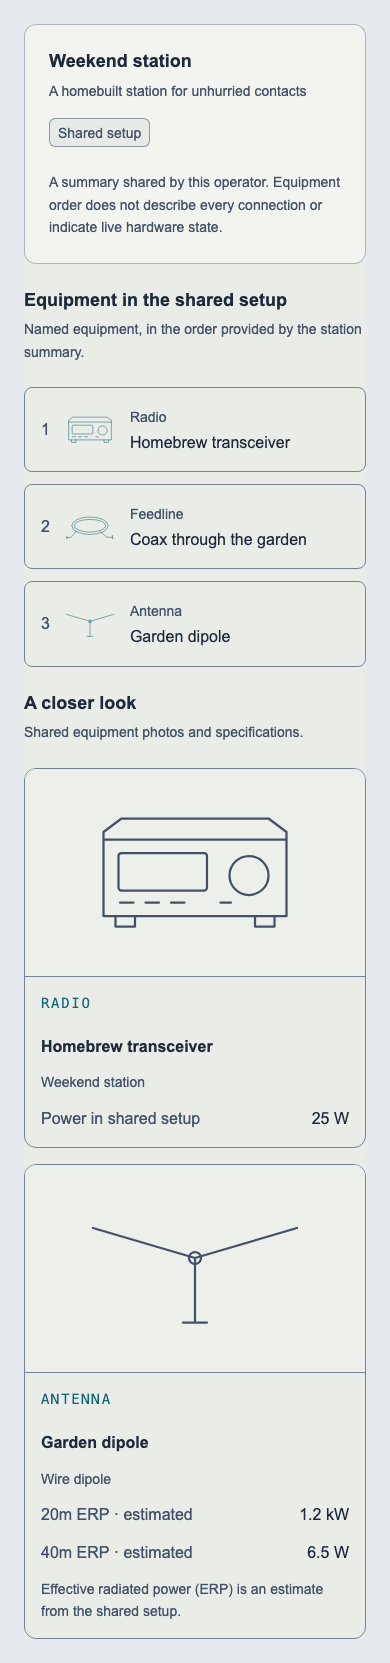
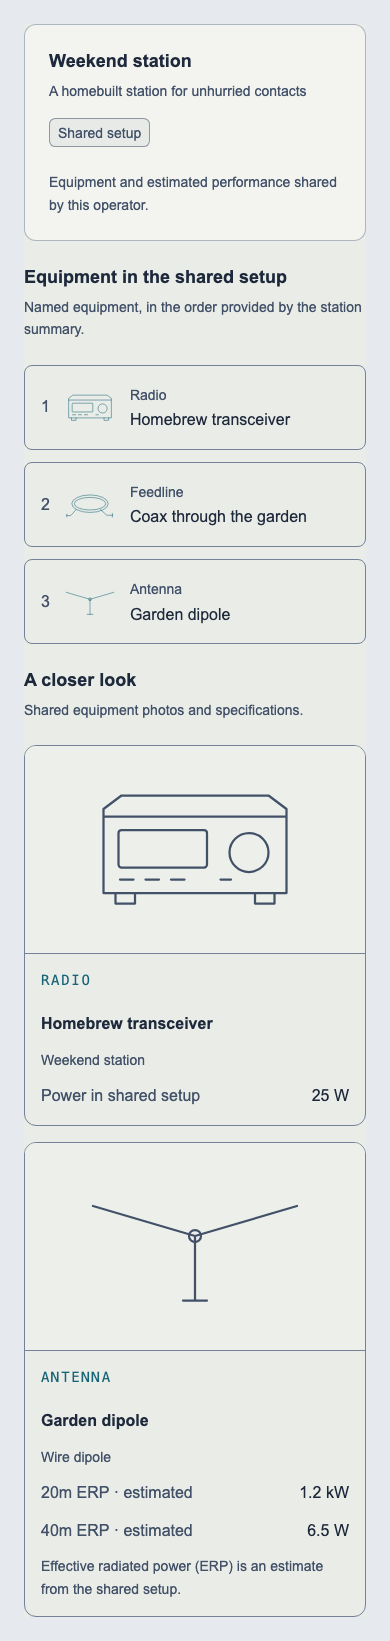
refactor(profile): simplify public station summary copy
Keep implementation boundaries in the release notes and refresh component screenshot evidence.

diff --git a/src/components/profile/PublicShackPanel.tsx b/src/components/profile/PublicShackPanel.tsx
@@ -85,8 +85,7 @@ export function PublicShackPanel({ equipment, ownerUserId }: PublicShackPanelPro
           actions={<Badge>Shared setup</Badge>}
         >
           <p className="su-hint">
-            A summary shared by this operator. Equipment order does not describe
-            every connection or indicate live hardware state.
+            Equipment and estimated performance shared by this operator.
           </p>
         </Section>
       </Surface>

diff --git a/docs/designs/profile-shack-workbench/PUBLIC-SHOWCASE-REVIEW.md b/docs/designs/profile-shack-workbench/PUBLIC-SHOWCASE-REVIEW.md
@@ -9,10 +9,10 @@ This is a presentation increment toward #185, #188 and #189. It does not complet
 ## Validation
 
 - Eight focused component tests: invalid summaries, metadata/node preservation, owner-bound photo lookup, zero/unknown values, no interactive controls and photo failure/replacement.
-- Focused and full ESLint, TypeScript and production build passed; normal Git hooks run before commit/push.
+- Focused and full ESLint, TypeScript and production build passed; normal Git hooks passed (346 test files / 3,106 application tests, 23 harness tests, full build and bundle budgets).
 - Actual `PublicShackPanel` rendered in disposable Chromium at dark/light 1200 px, light 390 px and dark 320 px: no horizontal overflow or page errors.
 
-The screenshots below use **synthetic public summary data**, with local-only rendering and no remote requests. They show generic equipment drawings because the fixture has no shared photos. They are component render evidence, not proof of authenticated visitor access, deployed publication or live hardware. The isolated server was verified against checkout `station-public-showcase`, owner `station-public-showcase`, session `a3adc1c9-2caf-4d14-8c70-7fb59734483c`, and stopped after capture.
+The screenshots below use **synthetic public summary data**, with local-only rendering and no remote requests. They show generic equipment drawings because the fixture has no shared photos. They are component render evidence, not proof of authenticated visitor access, deployed publication or live hardware. The isolated server was verified against checkout `station-public-showcase`, owner `station-public-showcase`, session `ae348046-0c91-4756-bfe9-f8aa71444e85`, and stopped after capture.
 
 ![Actual public showcase component, synthetic desktop dark fixture](evidence/public-showcase/desktop-dark.png)
 
